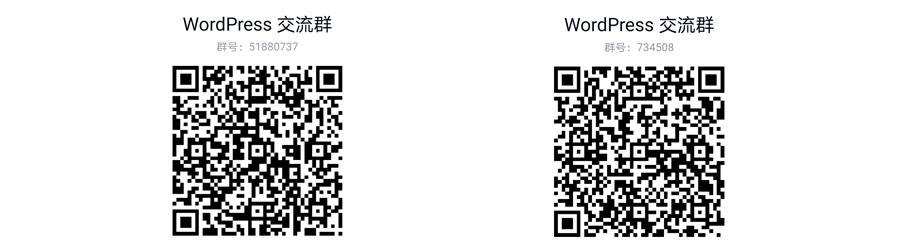
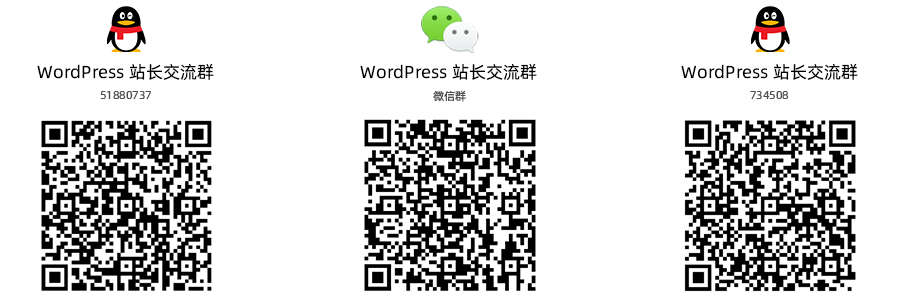
docs: add wechat group qr code

diff --git a/inc/theme-options.php b/inc/theme-options.php
@@ -1180,7 +1180,7 @@ CSF::createSection($prefix, array(
         ),
         array(
             'type' => 'content',
-            'content' => '<div style="max-width:800px;"><img style="width: 100%;height: auto;" src="https://cdn.seatonjiang.com/kratos/4.1.1/assets/img/options/discuss.png"></div>',
+            'content' => '<div style="max-width:800px;"><img style="width: 100%;height: auto;" src="' . get_template_directory_uri() . '/assets/img/options/discuss.png"></div>',
         ),
         array(
             'type' => 'subheading',
@@ -1188,7 +1188,7 @@ CSF::createSection($prefix, array(
         ),
         array(
             'type' => 'content',
-            'content' => '<div style="max-width:800px;"><img style="width: 100%;height: auto;" src="https://cdn.seatonjiang.com/kratos/4.1.1/assets/img/options/donate.png"></div>',
+            'content' => '<div style="max-width:800px;"><img style="width: 100%;height: auto;" src="' . get_template_directory_uri() . '/assets/img/options/donate.png"></div>',
         ),
     ),
 ));
